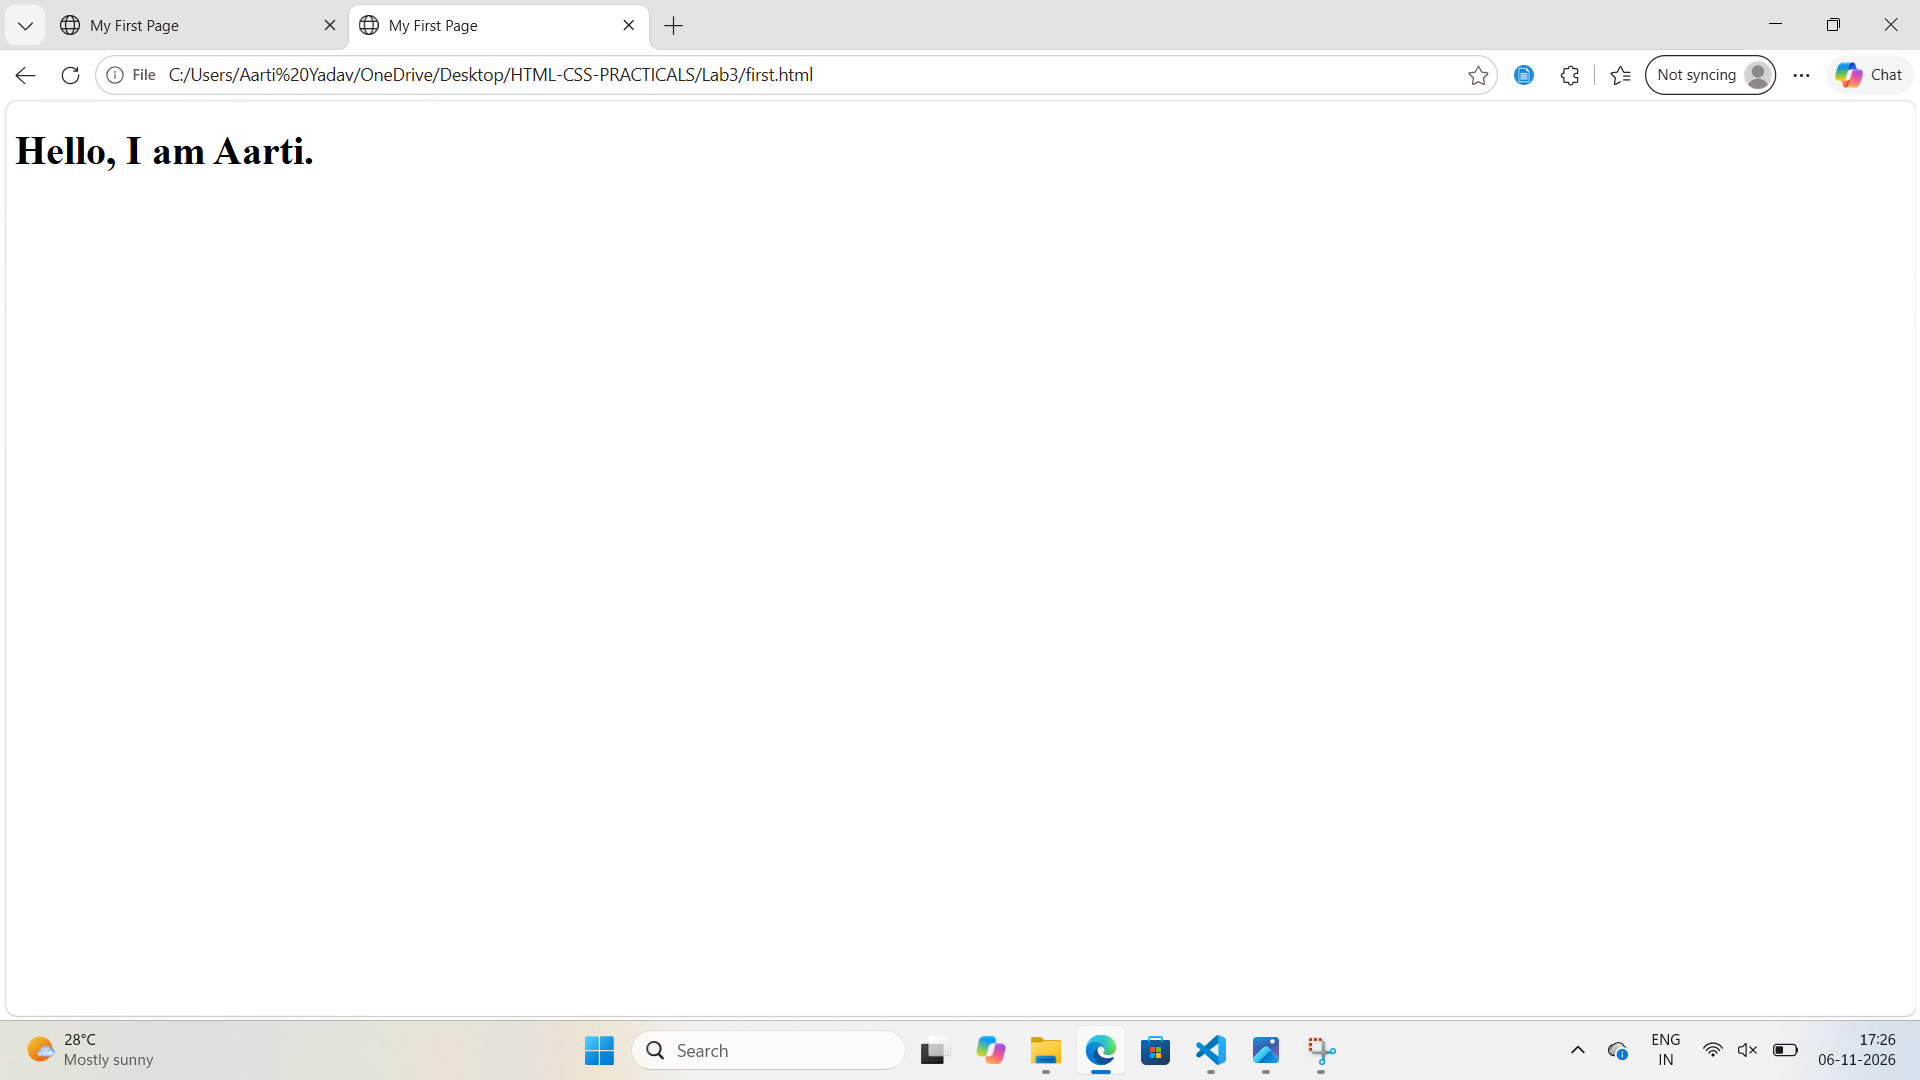
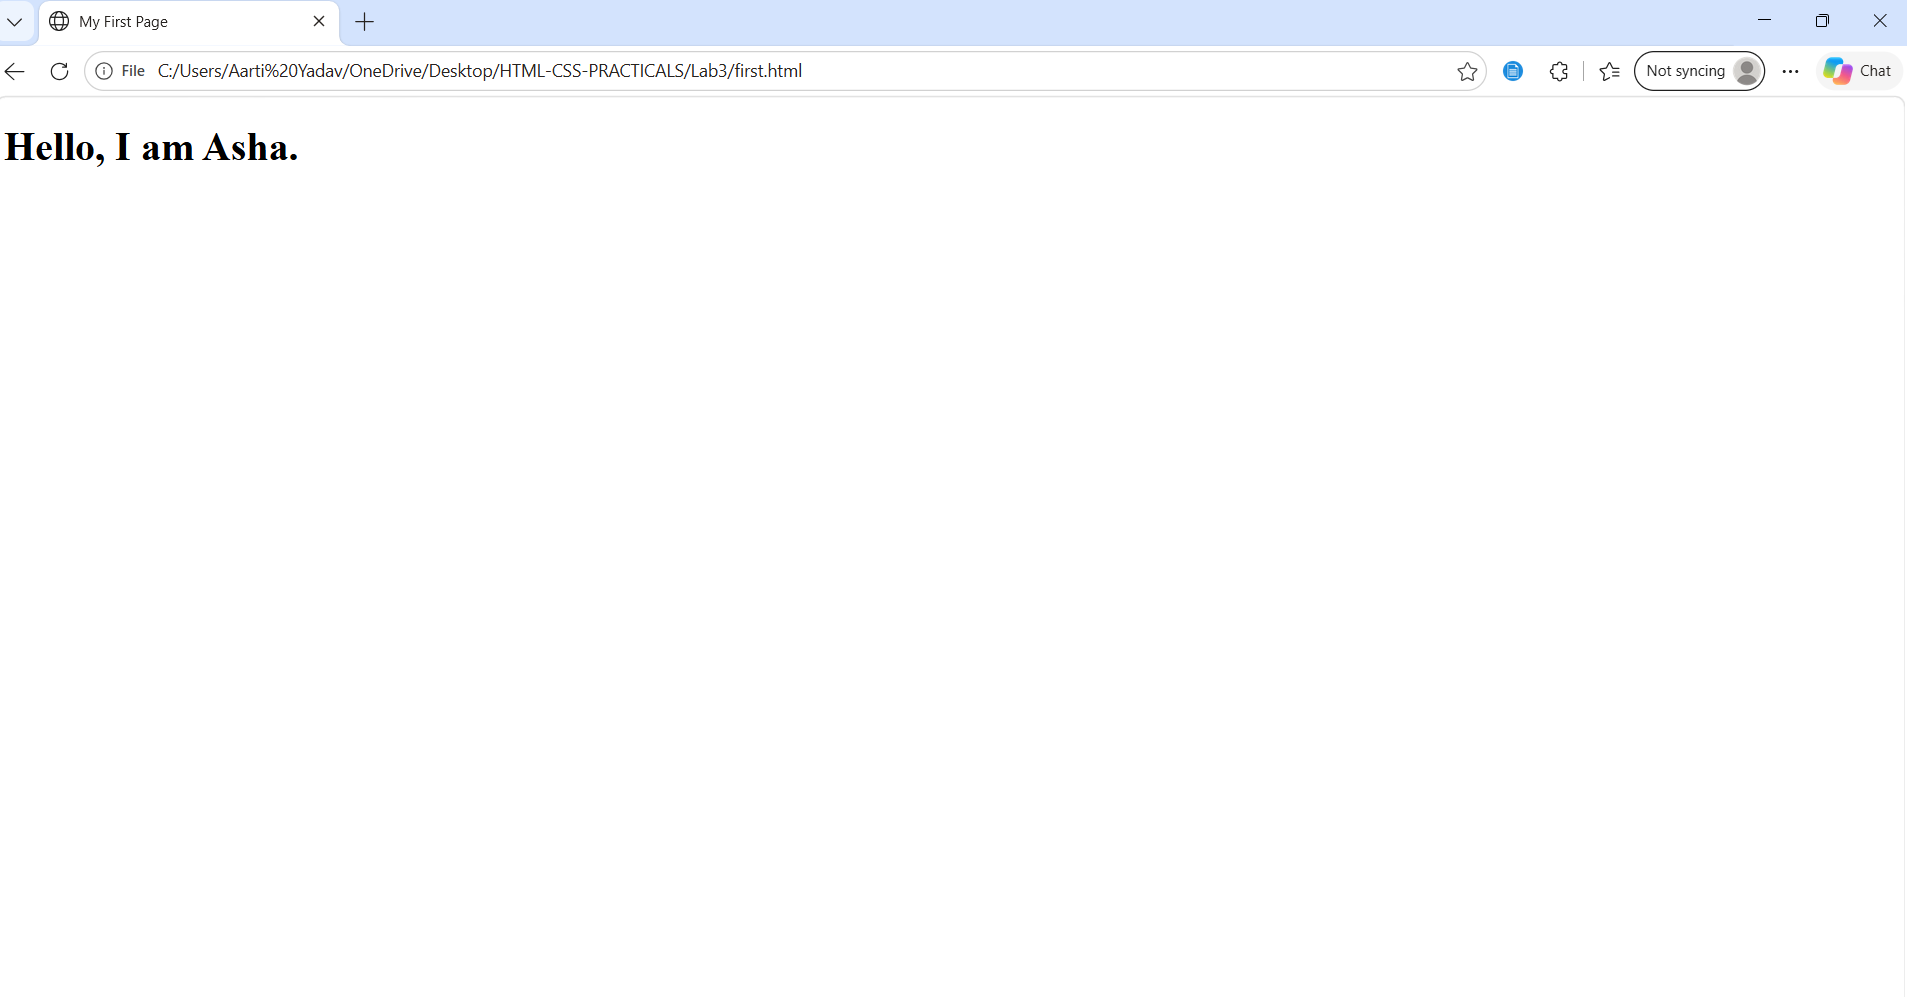
all labs fixed

diff --git a/Lab4/layout.html b/Lab4/layout.html
@@ -1,22 +1,17 @@
 <!-- Name: Aarti Yadav, Assignment: 4 -->
-<!DOCTYPE html>
-<html>
-<head>
-<title>Layout Page</title>
+
+<meta charset="UTF-8">
+<title>Layout</title>
+<style>
+.header, .main, .footer { border: 2px solid #555; padding: 12px; margin-bottom: 8px; }
+.header { background: #dbeafe; }
+.main { background: #f1f5f9; min-height: 80px; }
+.footer { background: #fde68a; }
+</style>
 </head>
 <body>
-<div class="header">
-<h1>My Website</h1>
-<p>This is header section.</p>
-</div>
-
-<div class="main">
-<h2>Welcome</h2>
-<p>This is main section of the page.</p>
-</div>
-
-<div class="footer">
-<p>This is footer section.</p>
-</div>
+<div class="header">This is the header</div>
+<div class="main">This is the main content</div>
+<div class="footer">This is the footer</div>
 </body>
 </html>

diff --git a/Lab6/faq.html b/Lab6/faq.html
@@ -1,17 +1,16 @@
 <!DOCTYPE html>
-<html>
+<html lang="en">
 <head>
-    <title>FAQ</title>
+<meta charset="UTF-8">
+<title>FAQ</title>
 </head>
 <body>
-    <h1>Frequently Asked Questions</h1>
-    <dl>
-        <dt>What is HTML?</dt>
-        <dd>HTML is used to create web pages.</dd>
-        <dt>What is CSS?</dt>
-        <dd>CSS is used to style web pages.</dd>
-        <dt>What is a list in HTML?</dt>
-        <dd>List is used to show items in order or without order.</dd>
+<h1>Library FAQ</h1>
+<dl>
+ <dt>How many books can I borrow?</dt>
+ <dd>You can borrow up to three books at a time.</dd>
+ <dt>Is the library open on Sunday?</dt>
+ <dd>No, the library is closed on Sundays.</dd>
     </dl>
 </body>
 </html>

diff --git a/Lab6/canteen-menu.html b/Lab6/canteen-menu.html
@@ -1,16 +1,19 @@
 <!DOCTYPE html>
-<html>
+<html lang="en">
 <head>
-    <title>Canteen Menu</title>
+<meta charset="UTF-8">
+<title>Canteen Menu</title>
 </head>
 <body>
-    <h1>Canteen Menu</h1>
-    <ol>
-        <li>Tea - Rs. 10</li>
-        <li>Coffee - Rs. 20</li>
-        <li>Samosa - Rs. 15</li>
-        <li>Maggi - Rs. 40</li>
-        <li>Sandwich - Rs. 30</li>
-    </ol>
+<h1>Canteen Menu</h1>
+<ol>
+ <li>Samosa</li>
+ <li>Sandwich
+ <ol>
+ <li>Cheese</li>
+ <li>Vegetable</li>
+ </ol>
+ </li>
+</ol>
 </body>
 </html>

diff --git a/Lab5/portfolio-image.html b/Lab5/portfolio-image.html
@@ -1,11 +1,12 @@
-<!-- Name: Aarti Yadav, Assignment: 5 -->
 <!DOCTYPE html>
-<html>
+<html lang="en">
 <head>
+<meta charset="UTF-8">
 <title>Portfolio Image</title>
 </head>
 <body>
-<h1>My Photo</h1>
-<img src="images/task1.png" width="200" height="200" alt="My portfolio photo">
+<h1>My Portfolio Photo</h1>
+<img src="images/profile.jpg" width="200" height="200" alt="Landscape with green mountains, a blue 
+sky and a yellow sun">
 </body>
 </html>

diff --git a/Lab6/shopping-list.html b/Lab6/shopping-list.html
@@ -6,11 +6,9 @@
 <body>
     <h1>My Shopping List</h1>
     <ul>
-        <li>Milk</li>
-        <li>Bread</li>
-        <li>Eggs</li>
-        <li>Vegetables</li>
-        <li>Fruits</li>
-    </ul>
+        <li>Notebook</li>
+        <li>Pen</li>
+        <li>Bag</li>
+        </ul>
 </body>
 </html>

diff --git a/Lab3/first.html b/Lab3/first.html
@@ -4,6 +4,6 @@
     <title>My First Page</title>
 </head>
 <body>
-    <h1>Hello, I am Aarti.</h1>
+    <h1>Hello, I am Asha.</h1>
 </body>
 </html>

diff --git a/Lab4/attendance-fixed.html b/Lab4/attendance-fixed.html
@@ -6,7 +6,7 @@
 </head>
 <body>
 <h1>Attendance Report</h1>
-<p>Aarti: 92%</p>
+<p>Asha: 92%</p>
 <p>Rohan: 85%</p>
 </body>
 </html>
